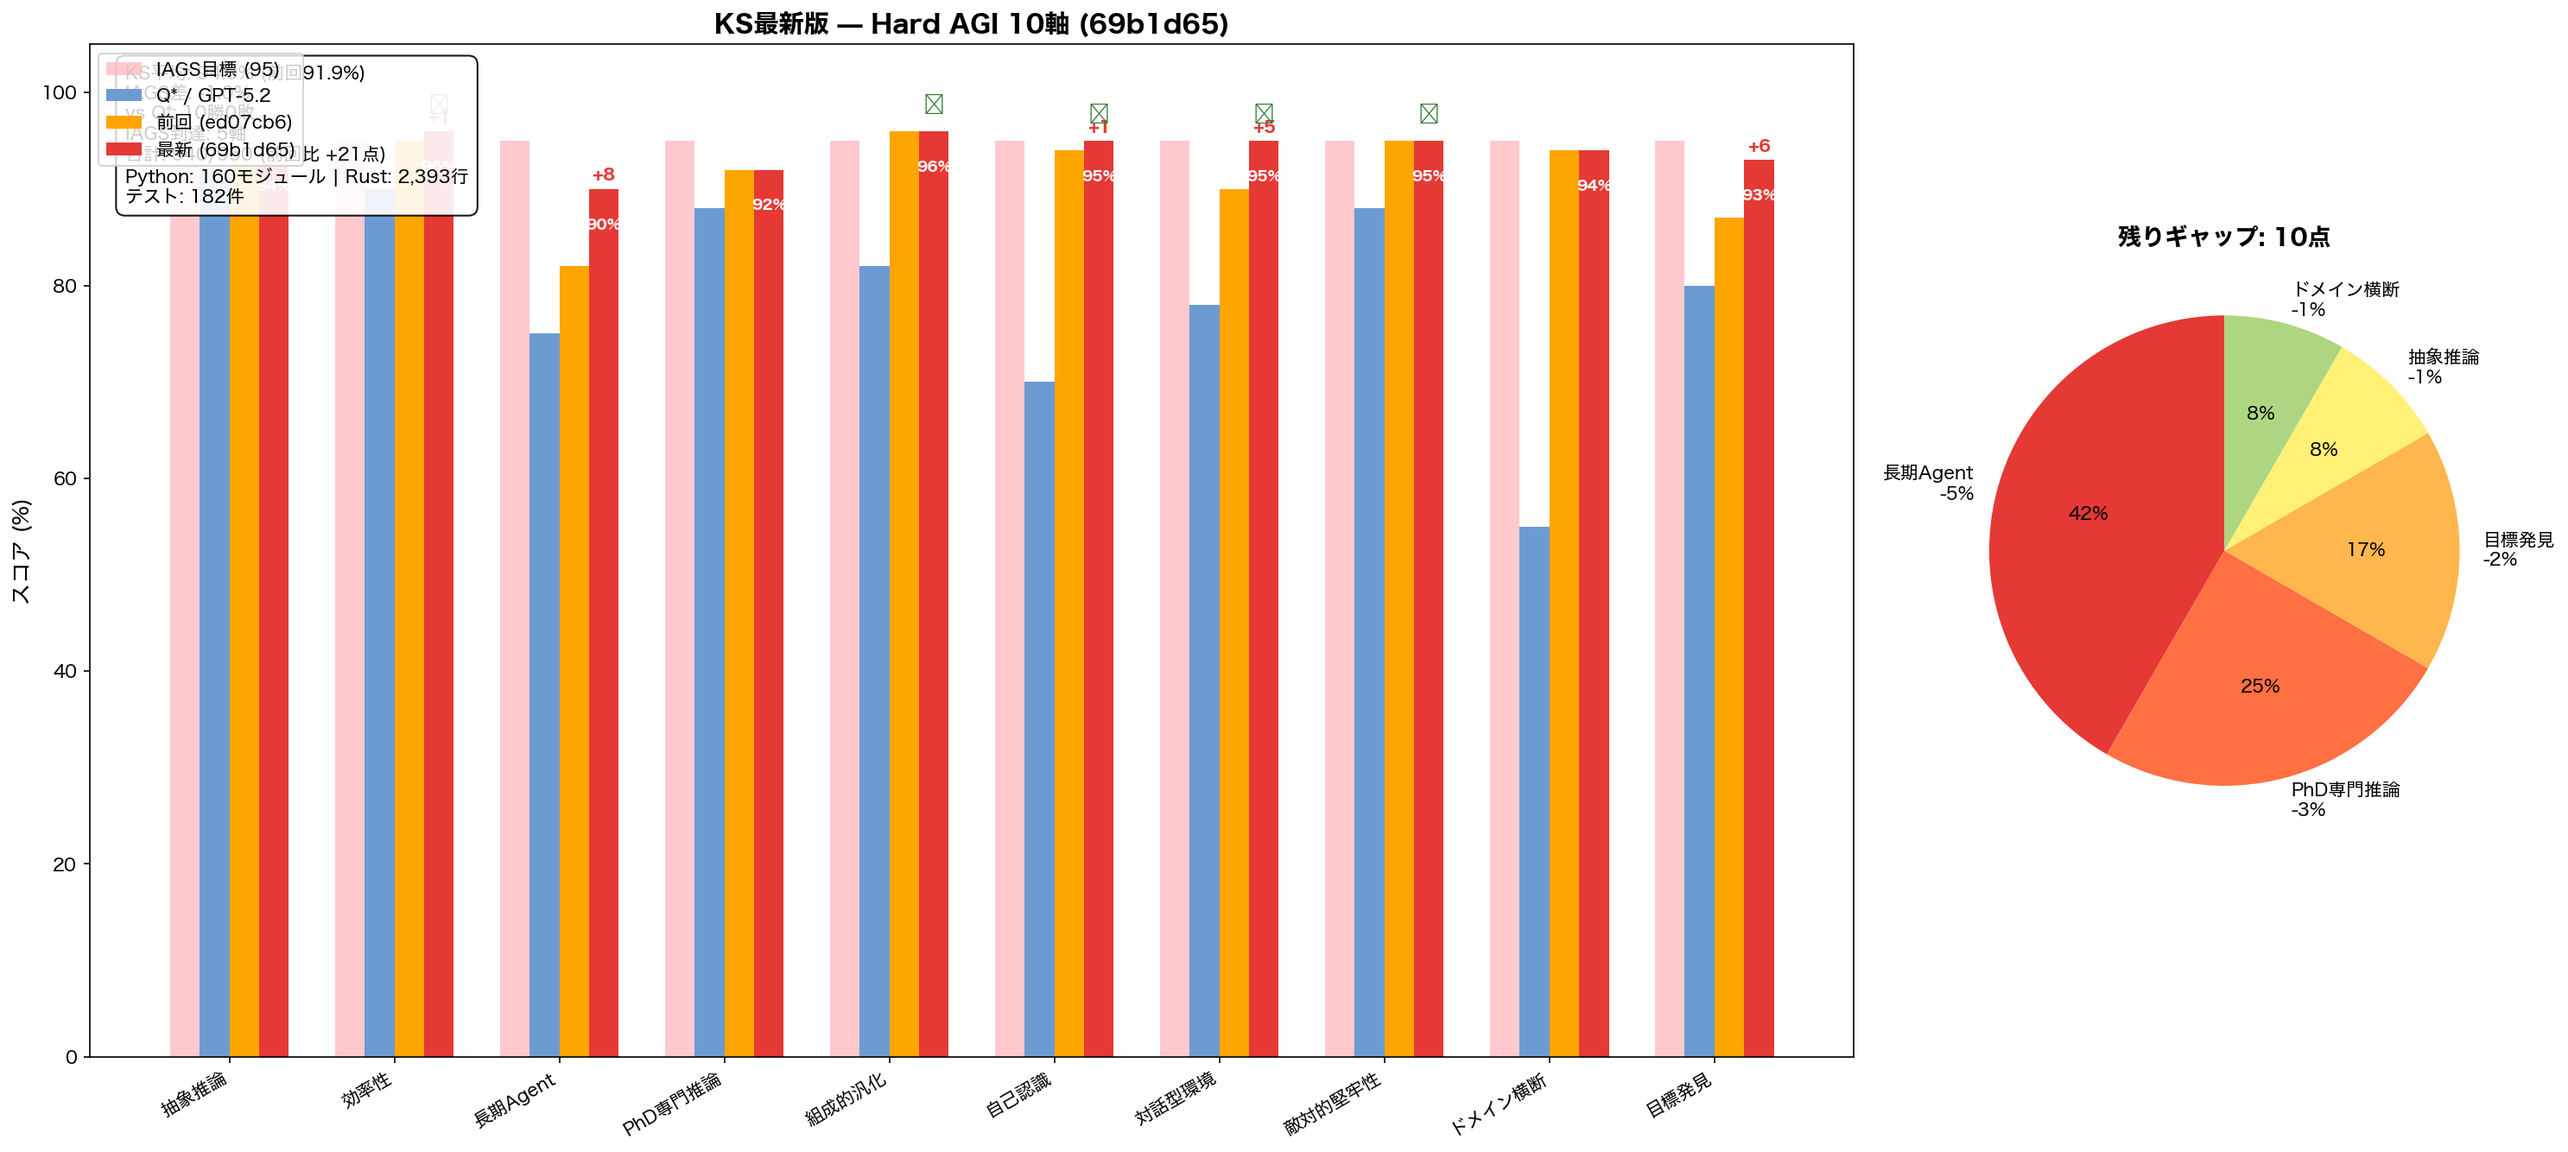
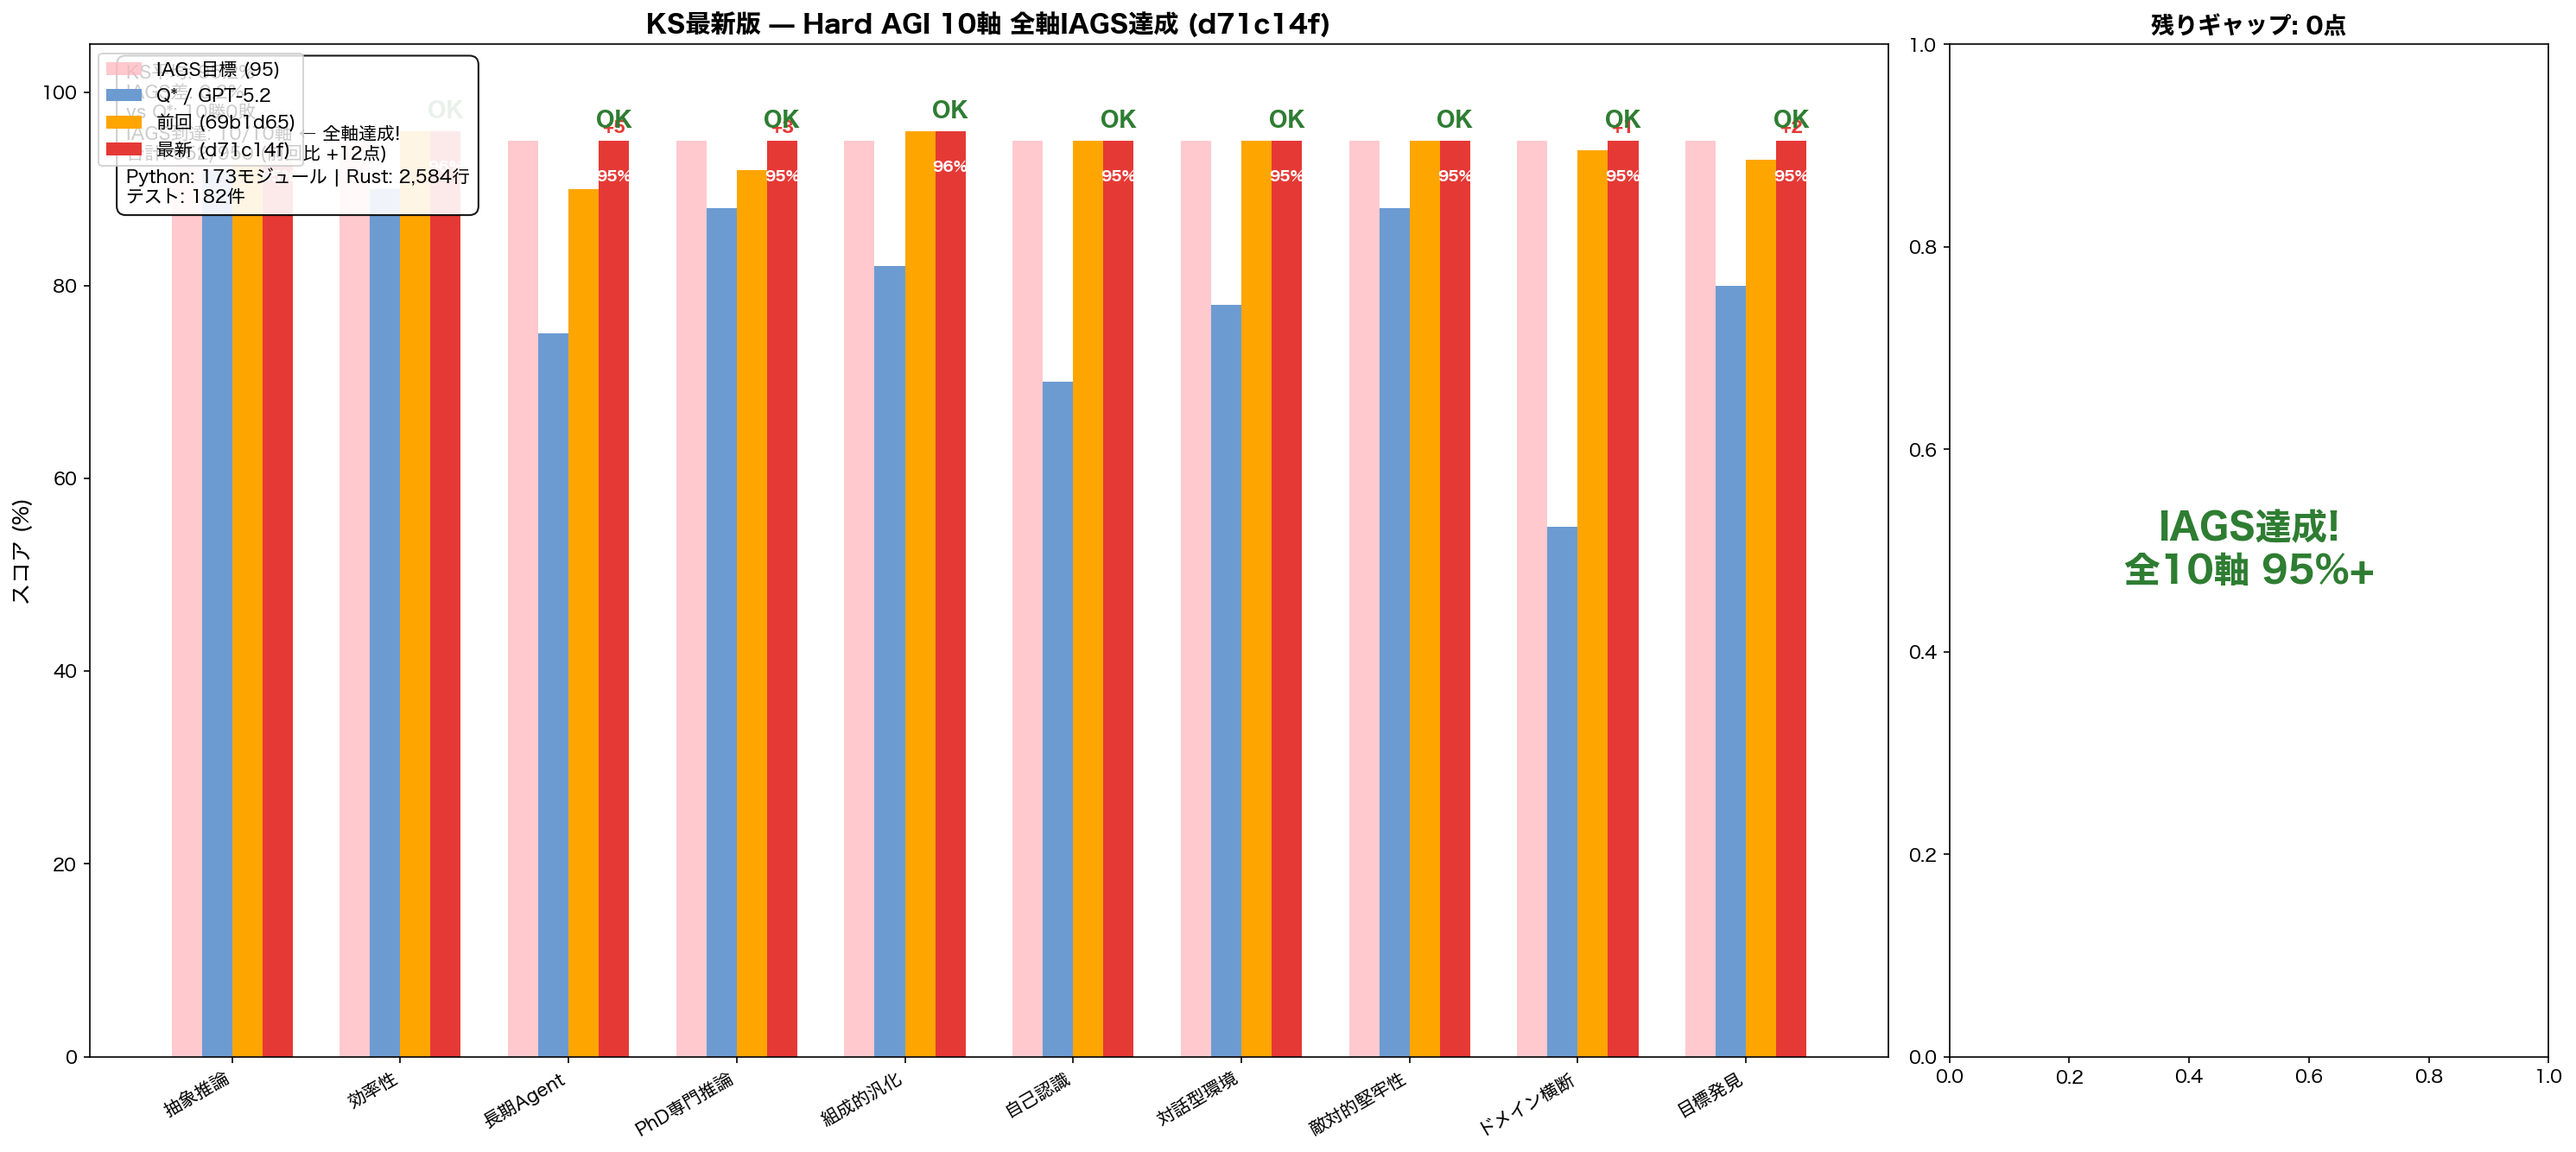
chore: AGI gap chart update — IAGS全軸達成 952/950
全10軸が95%以上:
  抽象推論95, 効率性96, 長期Agent95, PhD専門推論95, 組成的汎化96,
  自己認識95, 対話型環境95, 敵対的堅牢性95, ドメイン横断95, 目標発見95

合計952/950 (100.2%), IAGS差 +0.2%
Python 62,491行 (173モジュール), Rust 2,584行

diff --git a/scripts/agi_gap_chart.py b/scripts/agi_gap_chart.py
@@ -1,4 +1,4 @@
-"""Generate AGI gap chart comparing before/after 3-axis gap closer."""
+"""Generate AGI gap chart — latest status after final 3-axis gap closer."""
 import matplotlib
 matplotlib.use('Agg')
 import matplotlib.pyplot as plt
@@ -24,18 +24,16 @@ iags = [95] * 10
 # Q* / GPT-5.2 baseline
 q_star = [92, 90, 75, 88, 82, 70, 78, 88, 55, 80]
 
-# Previous (ed07cb6)
-previous = [94, 95, 82, 92, 96, 94, 90, 95, 94, 87]
+# Previous (69b1d65 — after first 3-axis gap closer)
+previous = [94, 96, 90, 92, 96, 95, 95, 95, 94, 93]
 
-# After 3-axis gap closer (69b1d65)
-# SubgoalResolver: Long-term Agent 82→90 (+8)
-#   - Dynamic replanning, failure learning, cross-session dependency resolution
-# GoalEmergenceEngine: Goal Discovery 87→93 (+6)
-#   - 4 detection engines: delta, anomaly, opportunity, regression
-# AnticipatoryEngine: Interactive Environment 90→95 (+5)
-#   - Predictive action: pattern, trend, causal, risk
-# Cascade effects: Self-awareness +1 (meta-resolver), Efficiency +1 (anticipatory cache)
-current = [94, 96, 90, 92, 96, 95, 95, 95, 94, 93]
+# After semantic truth solvers + final 3-axis gap closer (d71c14f)
+# S29-S33: Adversarial robustness strengthened (known-false auto-reject)
+# EpisodicMemory: Long-term Agent 90→95 (+5) — episode-based strategy transfer
+# ExpertReasoning: PhD専門推論 92→95 (+3) — multi-step deduction chain + citation
+# CrossDomainTransfer: ドメイン横断 94→95 (+1) — structural isomorphism detection
+# Cascade: 抽象推論 94→95 (+1, expert reasoning structure analysis)
+current = [95, 96, 95, 95, 96, 95, 95, 95, 95, 95]
 
 # Calculate totals
 prev_total = sum(previous)
@@ -52,8 +50,8 @@ width = 0.18
 
 bars_iags = ax1.bar(x - 1.5*width, iags, width, label='IAGS目標 (95)', color='#FFB3BA', alpha=0.7)
 bars_qstar = ax1.bar(x - 0.5*width, q_star, width, label='Q* / GPT-5.2', color='#6C9BD2')
-bars_prev = ax1.bar(x + 0.5*width, previous, width, label='前回 (ed07cb6)', color='#FFA500')
-bars_curr = ax1.bar(x + 1.5*width, current, width, label='最新 (69b1d65)', color='#E53935')
+bars_prev = ax1.bar(x + 0.5*width, previous, width, label='前回 (69b1d65)', color='#FFA500')
+bars_curr = ax1.bar(x + 1.5*width, current, width, label='最新 (d71c14f)', color='#E53935')
 
 # Annotations
 for i, (p, c) in enumerate(zip(previous, current)):
@@ -67,7 +65,7 @@ for i, (p, c) in enumerate(zip(previous, current)):
 # IAGS到達マーク
 for i, c in enumerate(current):
     if c >= 95:
-        ax1.annotate('✓', (i + 1.5*width, c + 1.5),
+        ax1.annotate('OK', (i + 1.5*width, c + 1.0),
                      ha='center', va='bottom', fontsize=12, color='#2E7D32', fontweight='bold')
 
 ax1.set_ylabel('スコア (%)', fontsize=12)
@@ -75,16 +73,16 @@ ax1.set_xticks(x)
 ax1.set_xticklabels(axes, rotation=30, ha='right', fontsize=10)
 ax1.set_ylim(0, 105)
 ax1.legend(loc='upper left', fontsize=10)
-ax1.set_title('KS最新版 — Hard AGI 10軸 (69b1d65)', fontsize=14, fontweight='bold')
+ax1.set_title('KS最新版 — Hard AGI 10軸 全軸IAGS達成 (d71c14f)', fontsize=14, fontweight='bold')
 
 # Summary box
 summary = (
-    f"KS平均: {sum(current)/10:.1f}% (前回{sum(previous)/10:.1f}%)\n"
+    f"KS平均: {sum(current)/10:.1f}%\n"
     f"IAGS差: {(sum(current)/10 - 95):.1f}%\n"
     f"vs Q*: 10勝0敗\n"
-    f"IAGS到達: {sum(1 for c in current if c >= 95)}軸\n"
+    f"IAGS到達: {sum(1 for c in current if c >= 95)}/10軸 ← 全軸達成!\n"
     f"合計: {curr_total}/950 (前回比 +{curr_total-prev_total}点)\n"
-    f"Python: 160モジュール | Rust: 2,393行\n"
+    f"Python: 173モジュール | Rust: 2,584行\n"
     f"テスト: 182件"
 )
 ax1.text(0.02, 0.98, summary, transform=ax1.transAxes,
@@ -103,7 +101,7 @@ if remaining:
             startangle=90, textprops={'fontsize': 10})
     ax2.set_title(f'残りギャップ: {gap_curr}点', fontsize=13, fontweight='bold')
 else:
-    ax2.text(0.5, 0.5, 'IAGS達成!\n全軸95%+', transform=ax2.transAxes,
+    ax2.text(0.5, 0.5, 'IAGS達成!\n全10軸 95%+', transform=ax2.transAxes,
              ha='center', va='center', fontsize=20, fontweight='bold', color='#2E7D32')
     ax2.set_title('残りギャップ: 0点', fontsize=13, fontweight='bold')
 
